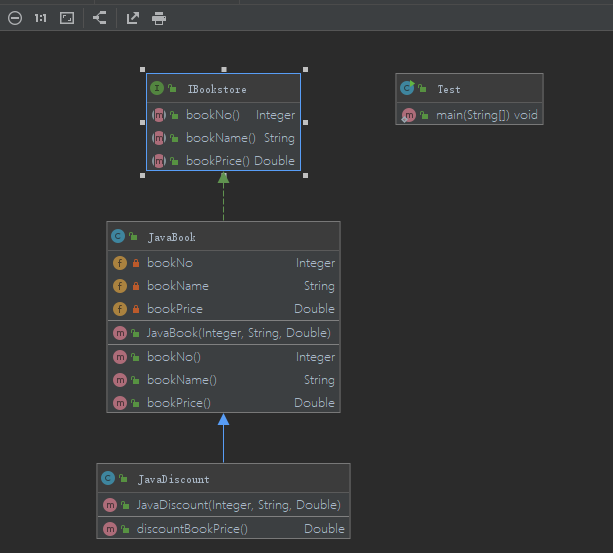
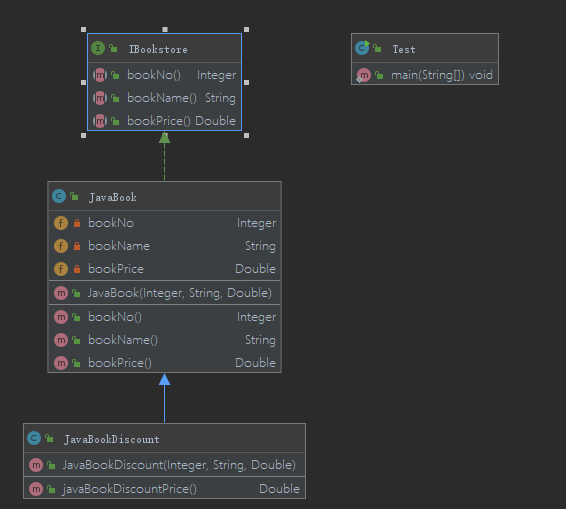
初次提交

diff --git a/src/main/java/com/iamfy/design/principle/openclose/Test.java b/src/main/java/com/iamfy/design/principle/openclose/Test.java
@@ -2,11 +2,11 @@ package com.iamfy.design.principle.openclose;
 
 public class Test {
     public static void main(String[] args) {
-        IBookstore bookstore = new JavaDiscount(1, "java", 50d);
-        JavaDiscount discount = (JavaDiscount) bookstore;
+        IBookstore bookstore = new JavaBookDiscount(1, "java", 50d);
+        JavaBookDiscount discount = (JavaBookDiscount) bookstore;
         System.out.println("书籍编号:" + bookstore.bookNo());
         System.out.println("书籍名称:" + bookstore.bookName());
         System.out.println("书籍原价格:" + bookstore.bookPrice());
-        System.out.println("书籍优惠价格:" + discount.discountBookPrice());
+        System.out.println("书籍优惠价格:" + discount.javaBookDiscountPrice());
     }
 }

diff --git a/src/main/java/com/iamfy/design/principle/openclose/JavaBookDiscount.java b/src/main/java/com/iamfy/design/principle/openclose/JavaBookDiscount.java
@@ -1,0 +1,11 @@
+package com.iamfy.design.principle.openclose;
+
+public class JavaBookDiscount extends JavaBook {
+    public JavaBookDiscount(Integer bookNo, String bookName, Double bookPrice) {
+        super(bookNo, bookName, bookPrice);
+    }
+
+    public Double javaBookDiscountPrice() {
+        return super.bookPrice() * 0.5;
+    }
+}
